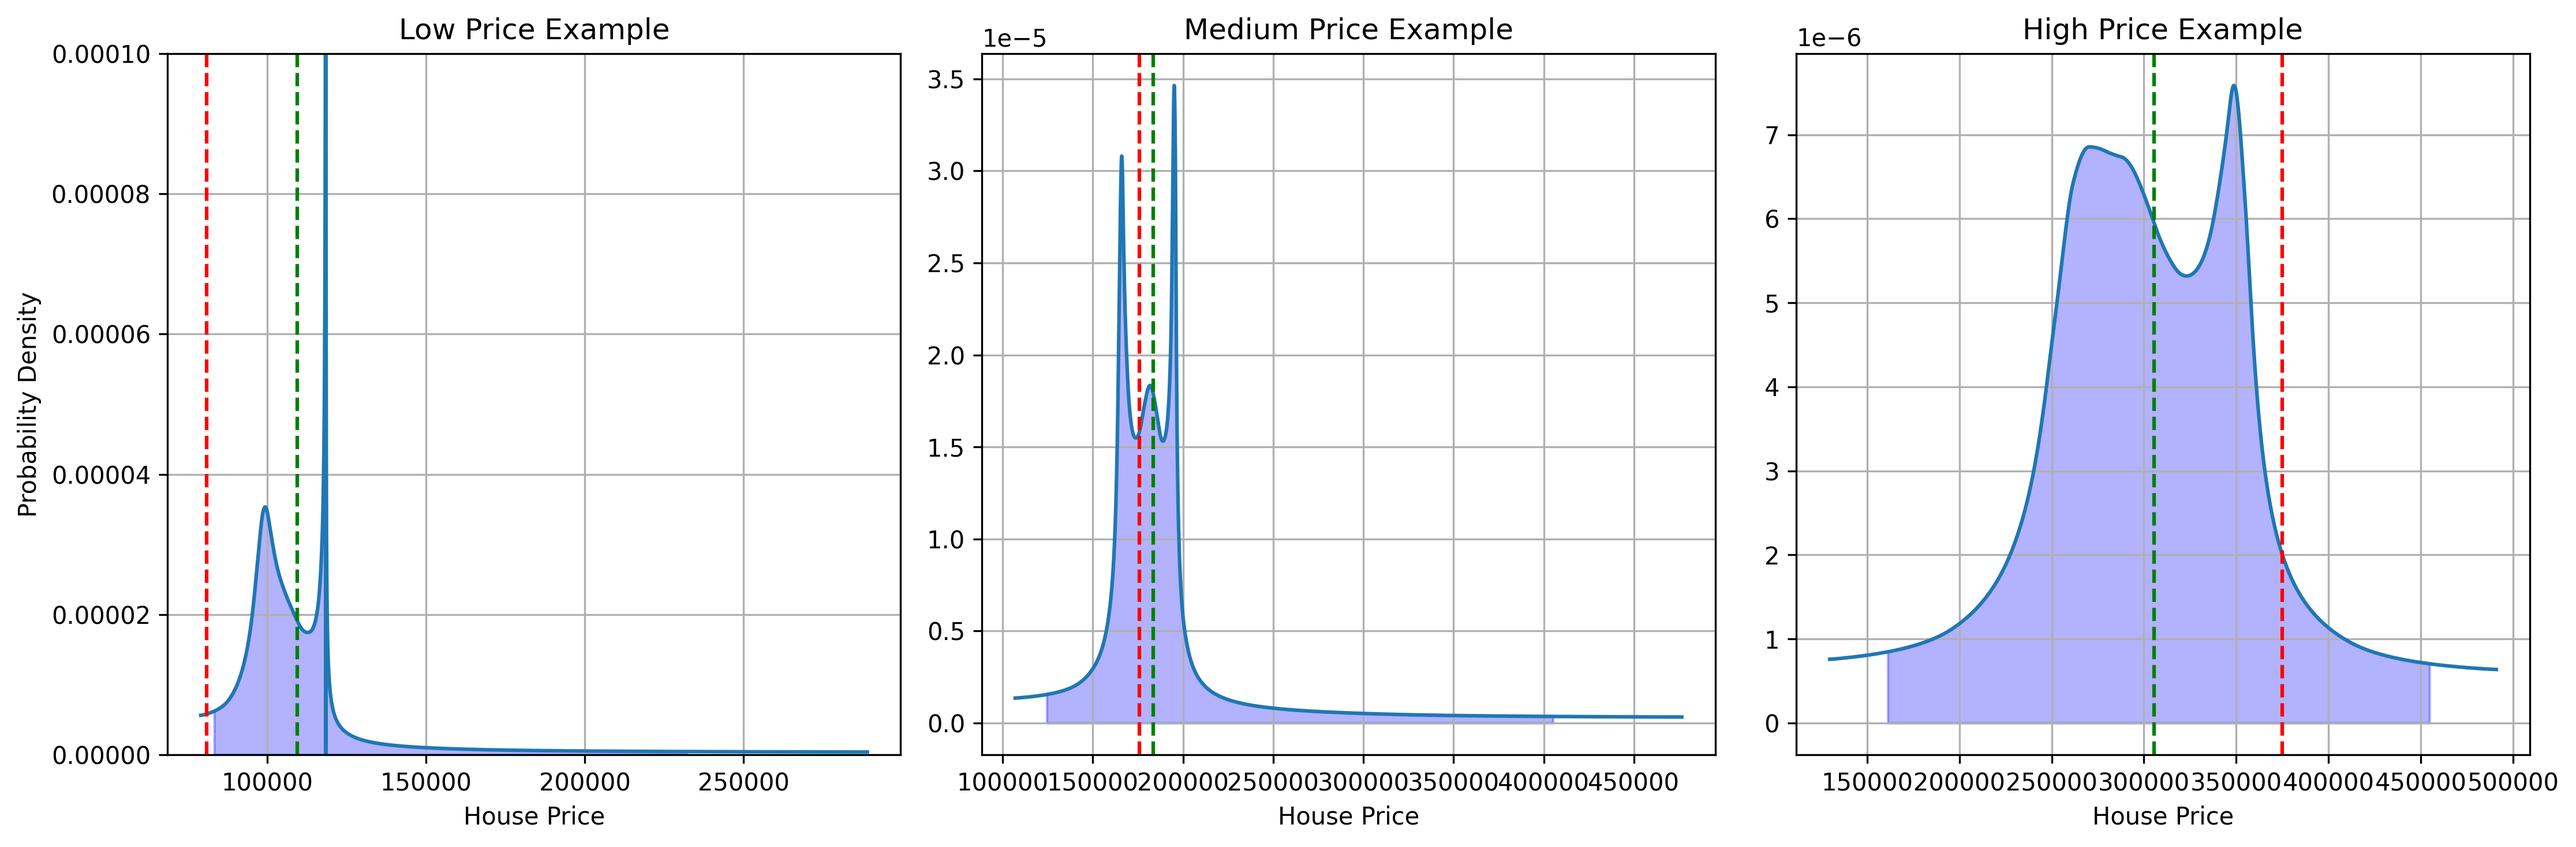
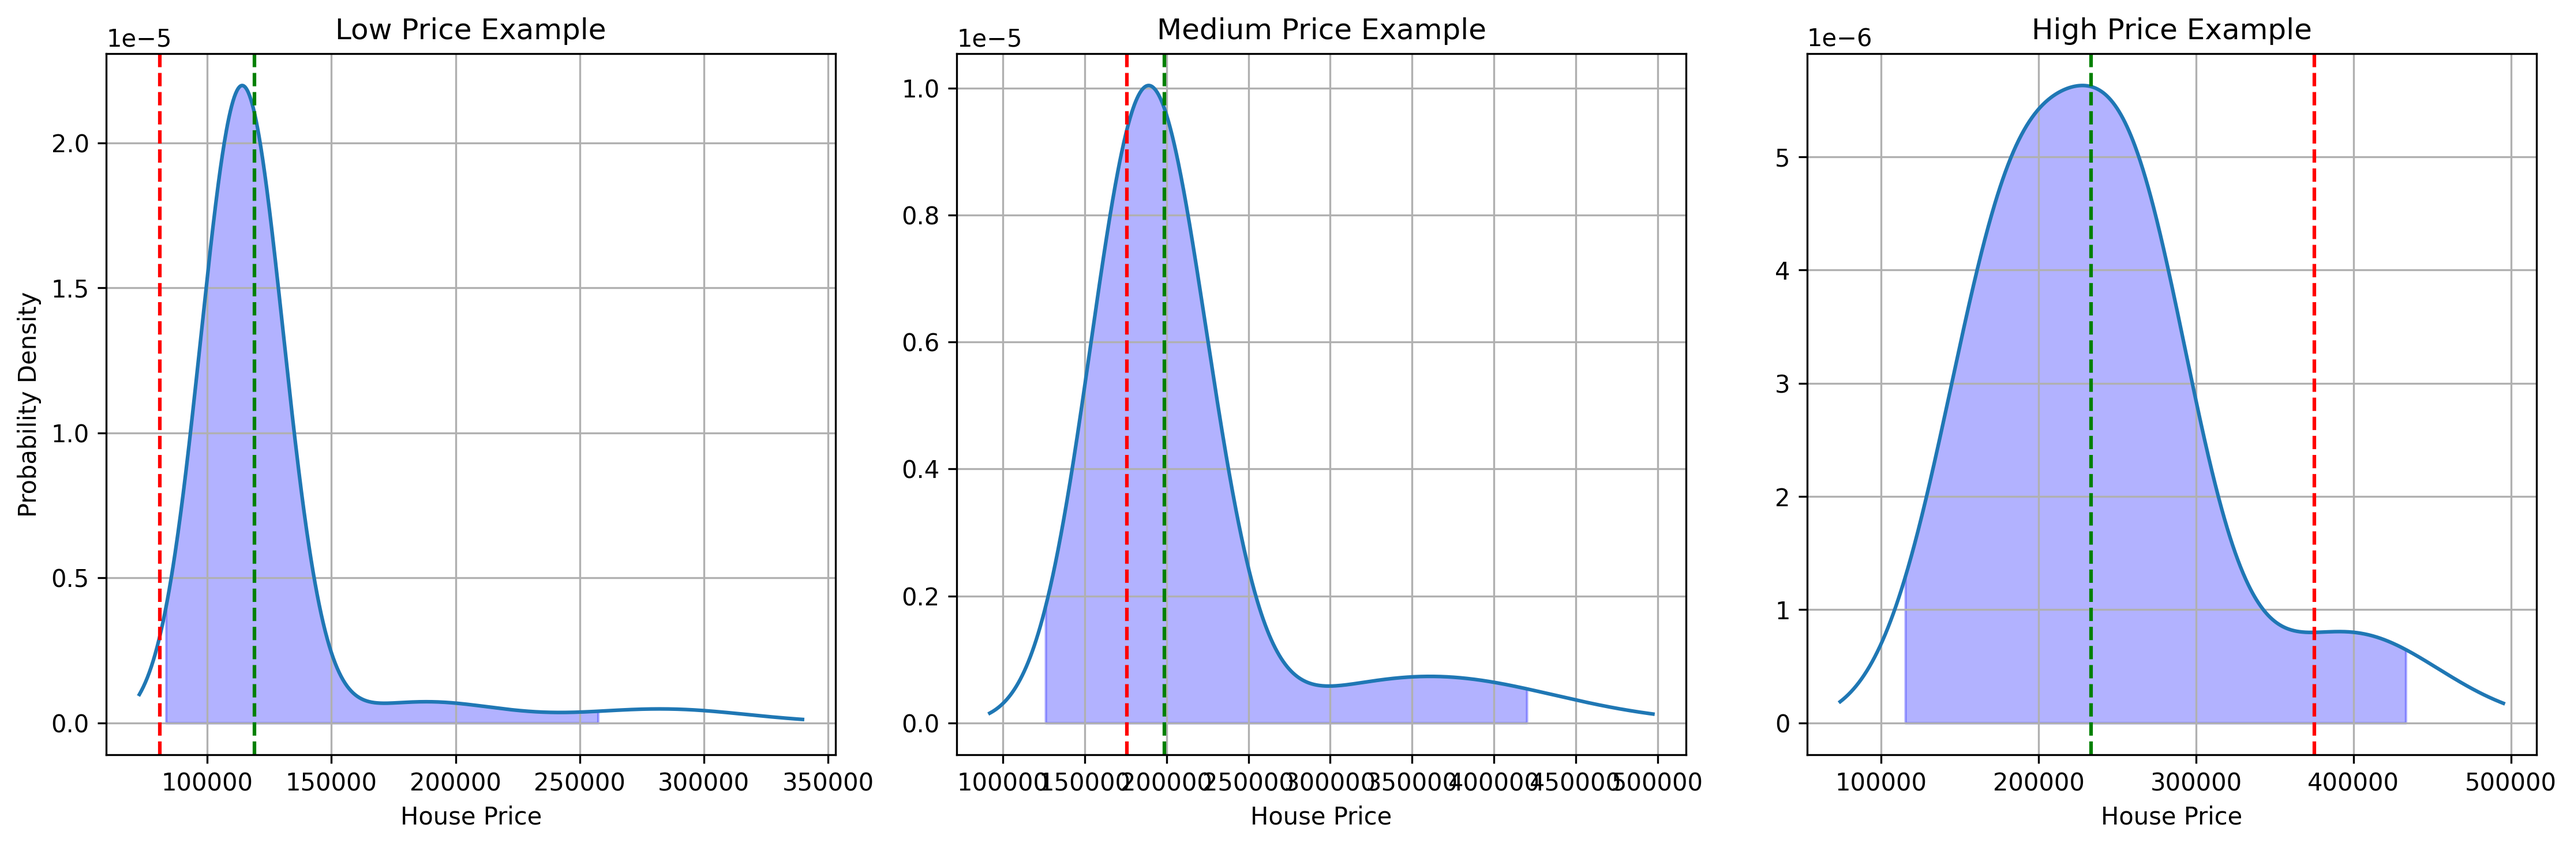
Add GMM instead of KDE

diff --git a/prob_gbt/prob_gbt.py b/prob_gbt/prob_gbt.py
@@ -4,18 +4,11 @@ import os
 import tarfile
 import json
 import tempfile
-import shutil
-import sys
-import io
-from contextlib import redirect_stdout
 from catboost import CatBoostRegressor
-from scipy.stats import norm, gaussian_kde
-from scipy.interpolate import UnivariateSpline
+from scipy.stats import norm
 from scipy.integrate import cumulative_trapezoid
-from scipy.ndimage import gaussian_filter1d
 from pygam import LinearGAM, s
-from sklearn.isotonic import IsotonicRegression
-from sklearn.model_selection import KFold
+from sklearn.mixture import GaussianMixture
 from tqdm import tqdm
 
 class ProbGBT:
@@ -234,8 +227,8 @@ class ProbGBT:
             Index of the sample in quantile_preds to process.
         num_points : int, default=1000
             Number of points to use for the PDF.
-        method : str, default='kde'
-            Method to use for PDF smoothing ('kde' or 'spline').
+        method : str, default='gmm'
+            Method to use for PDF smoothing ('gmm' or 'spline').
             
         Returns:
         --------
@@ -275,7 +268,7 @@ class ProbGBT:
             # Return the quantiles_smooth as the cdf_values for consistency
             return y_pred_smooth, pdf_smooth, quantiles_smooth, quantiles_smooth
             
-        elif method == 'kde':
+        elif method == 'gmm':
             # First get spline results as a base
             # Fit a GAM to smooth the quantile function
             gam = LinearGAM(s(0, constraints="monotonic_inc")).fit(self.quantiles, y_pred_sample)
@@ -298,22 +291,23 @@ class ProbGBT:
             else:
                 pdf_smooth = np.ones_like(pdf_smooth) / len(pdf_smooth)
             
-            # Now apply KDE on top of spline results
-            # Check for NaN or Inf values before proceeding with KDE
+            # Now apply GMM on top of spline results
+            # Check for NaN or Inf values before proceeding with GMM
             if np.any(np.isnan(pdf_smooth)) or np.any(np.isinf(pdf_smooth)) or np.any(np.isnan(y_pred_smooth)) or np.any(np.isinf(y_pred_smooth)):
-                # If there are NaNs or Infs, skip KDE and use spline results directly
+                # If there are NaNs or Infs, skip GMM and use spline results directly
                 x_values = y_pred_smooth
                 pdf_values = pdf_smooth
             else:
                 try:
-                    # Apply KDE with automatic bandwidth selection
-                    kde = gaussian_kde(y_pred_smooth, weights=pdf_smooth)
+                    # Use a gaussian mixture model
+                    gmm = GaussianMixture(n_components=3, max_iter=1000)
+                    gmm.fit(y_pred_smooth.reshape(-1, 1))
                     
                     # Generate final smoothed PDF on a regular grid
                     x_values = np.linspace(np.min(y_pred_smooth), np.max(y_pred_smooth), num_points)
-                    pdf_values = kde(x_values)
+                    pdf_values = np.exp(gmm.score_samples(x_values.reshape(-1, 1)))
                     
-                    # Final normalization of the PDF
+                    # Normalize the PDF
                     integral = np.trapz(pdf_values, x_values)
                     if integral > 1e-10:
                         pdf_values /= integral
@@ -322,8 +316,8 @@ class ProbGBT:
                         pdf_values = np.ones_like(x_values) / len(x_values)
                         
                 except Exception as e:
-                    # If KDE fails, fall back to the spline result
-                    print(f"Warning: KDE failed, using spline result: {e}")
+                    # If GMM fails, fall back to the spline result
+                    print(f"Warning: GMM failed, using spline result: {e}")
                     x_values = y_pred_smooth
                     pdf_values = pdf_smooth
             
@@ -349,7 +343,7 @@ class ProbGBT:
             return x_values, pdf_values, cdf_values, quantiles_smooth
         
         else:
-            raise ValueError(f"Unknown method: {method}. Choose from 'spline' or 'kde'.")
+            raise ValueError(f"Unknown method: {method}. Choose from 'spline' or 'gmm'.")
 
     def predict_interval(self, X, confidence_level=0.95, method='spline', num_points=1000):
         """
@@ -361,8 +355,8 @@ class ProbGBT:
             Features to predict on.
         confidence_level : float, default=0.95
             Confidence level for the interval (between 0 and 1).
-        method : str, default='kde'
-            Method to use for PDF smoothing ('kde' or 'spline').
+        method : str, default='gmm'
+            Method to use for PDF smoothing ('gmm' or 'spline').
         num_points : int, default=1000
             Number of points to use for the PDF.
             
@@ -428,10 +422,10 @@ class ProbGBT:
             Features to predict on.
         num_points : int, default=1000
             Number of points to use for the PDF.
-        method : str, default='kde'
+        method : str, default='spline'
             Method to use for PDF smoothing:
-            - 'kde': Kernel Density Estimation applied on top of spline smoothing (recommended)
-            - 'spline': Original method using GAM smoothing only
+            - 'spline': Original method using GAM smoothing only (recommended)
+            - 'gmm': Kernel Density Estimation applied on top of spline smoothing 
             
         Returns:
         --------

diff --git a/prob_gbt/example.py b/prob_gbt/example.py
@@ -44,10 +44,10 @@ def main():
     print("\nTraining ProbGBT model...")
     model = ProbGBT(
         num_quantiles=50,
-        iterations=300,
+        iterations=200,
         subsample=1.0,
         random_seed=42,
-        train_separate_models=True
+        train_separate_models=False
     )
 
     model.train(
@@ -69,7 +69,7 @@ def main():
 
     # Predict confidence intervals
     print("\nPredicting confidence intervals...")
-    lower_bounds, upper_bounds = model.predict_interval(X_test, confidence_level=0.95)
+    lower_bounds, upper_bounds = model.predict_interval(X_test, confidence_level=0.95, method='gmm')
     
     # Plot predictions vs actual for a subset of test samples
     print("\nPlotting predictions vs actual values...")
@@ -94,7 +94,7 @@ def main():
     # Plot PDF for a single example
     print("\nPlotting probability density function for a single example...")
     sample_idx = sample_indices[0]
-    pdfs = model.predict_pdf(X_test.iloc[[sample_idx]])
+    pdfs = model.predict_pdf(X_test.iloc[[sample_idx]], method='gmm')
     x_values, pdf_values = pdfs[0]
 
     plt.figure(figsize=(10, 6))
@@ -133,7 +133,7 @@ def main():
     
     # Second pass to plot without y-axis limit adjustments
     for i, idx in enumerate(diverse_indices):
-        pdfs = model.predict_pdf(X_test.iloc[[idx]])
+        pdfs = model.predict_pdf(X_test.iloc[[idx]], method='gmm')
         x_values, pdf_values = pdfs[0]
         
         axes[i].plot(x_values, pdf_values, label='PDF')
@@ -257,7 +257,7 @@ def main():
     print("Calculating coverage for different confidence levels...")
     for conf_level in tqdm(confidence_levels, desc="Evaluating confidence levels"):
         # Get interval bounds for this confidence level using the same method
-        lower, upper = model.predict_interval(X_test, confidence_level=conf_level)
+        lower, upper = model.predict_interval(X_test, confidence_level=conf_level, method='gmm')
         
         # Calculate coverage
         coverage = np.mean((y_test >= lower) & (y_test <= upper))
